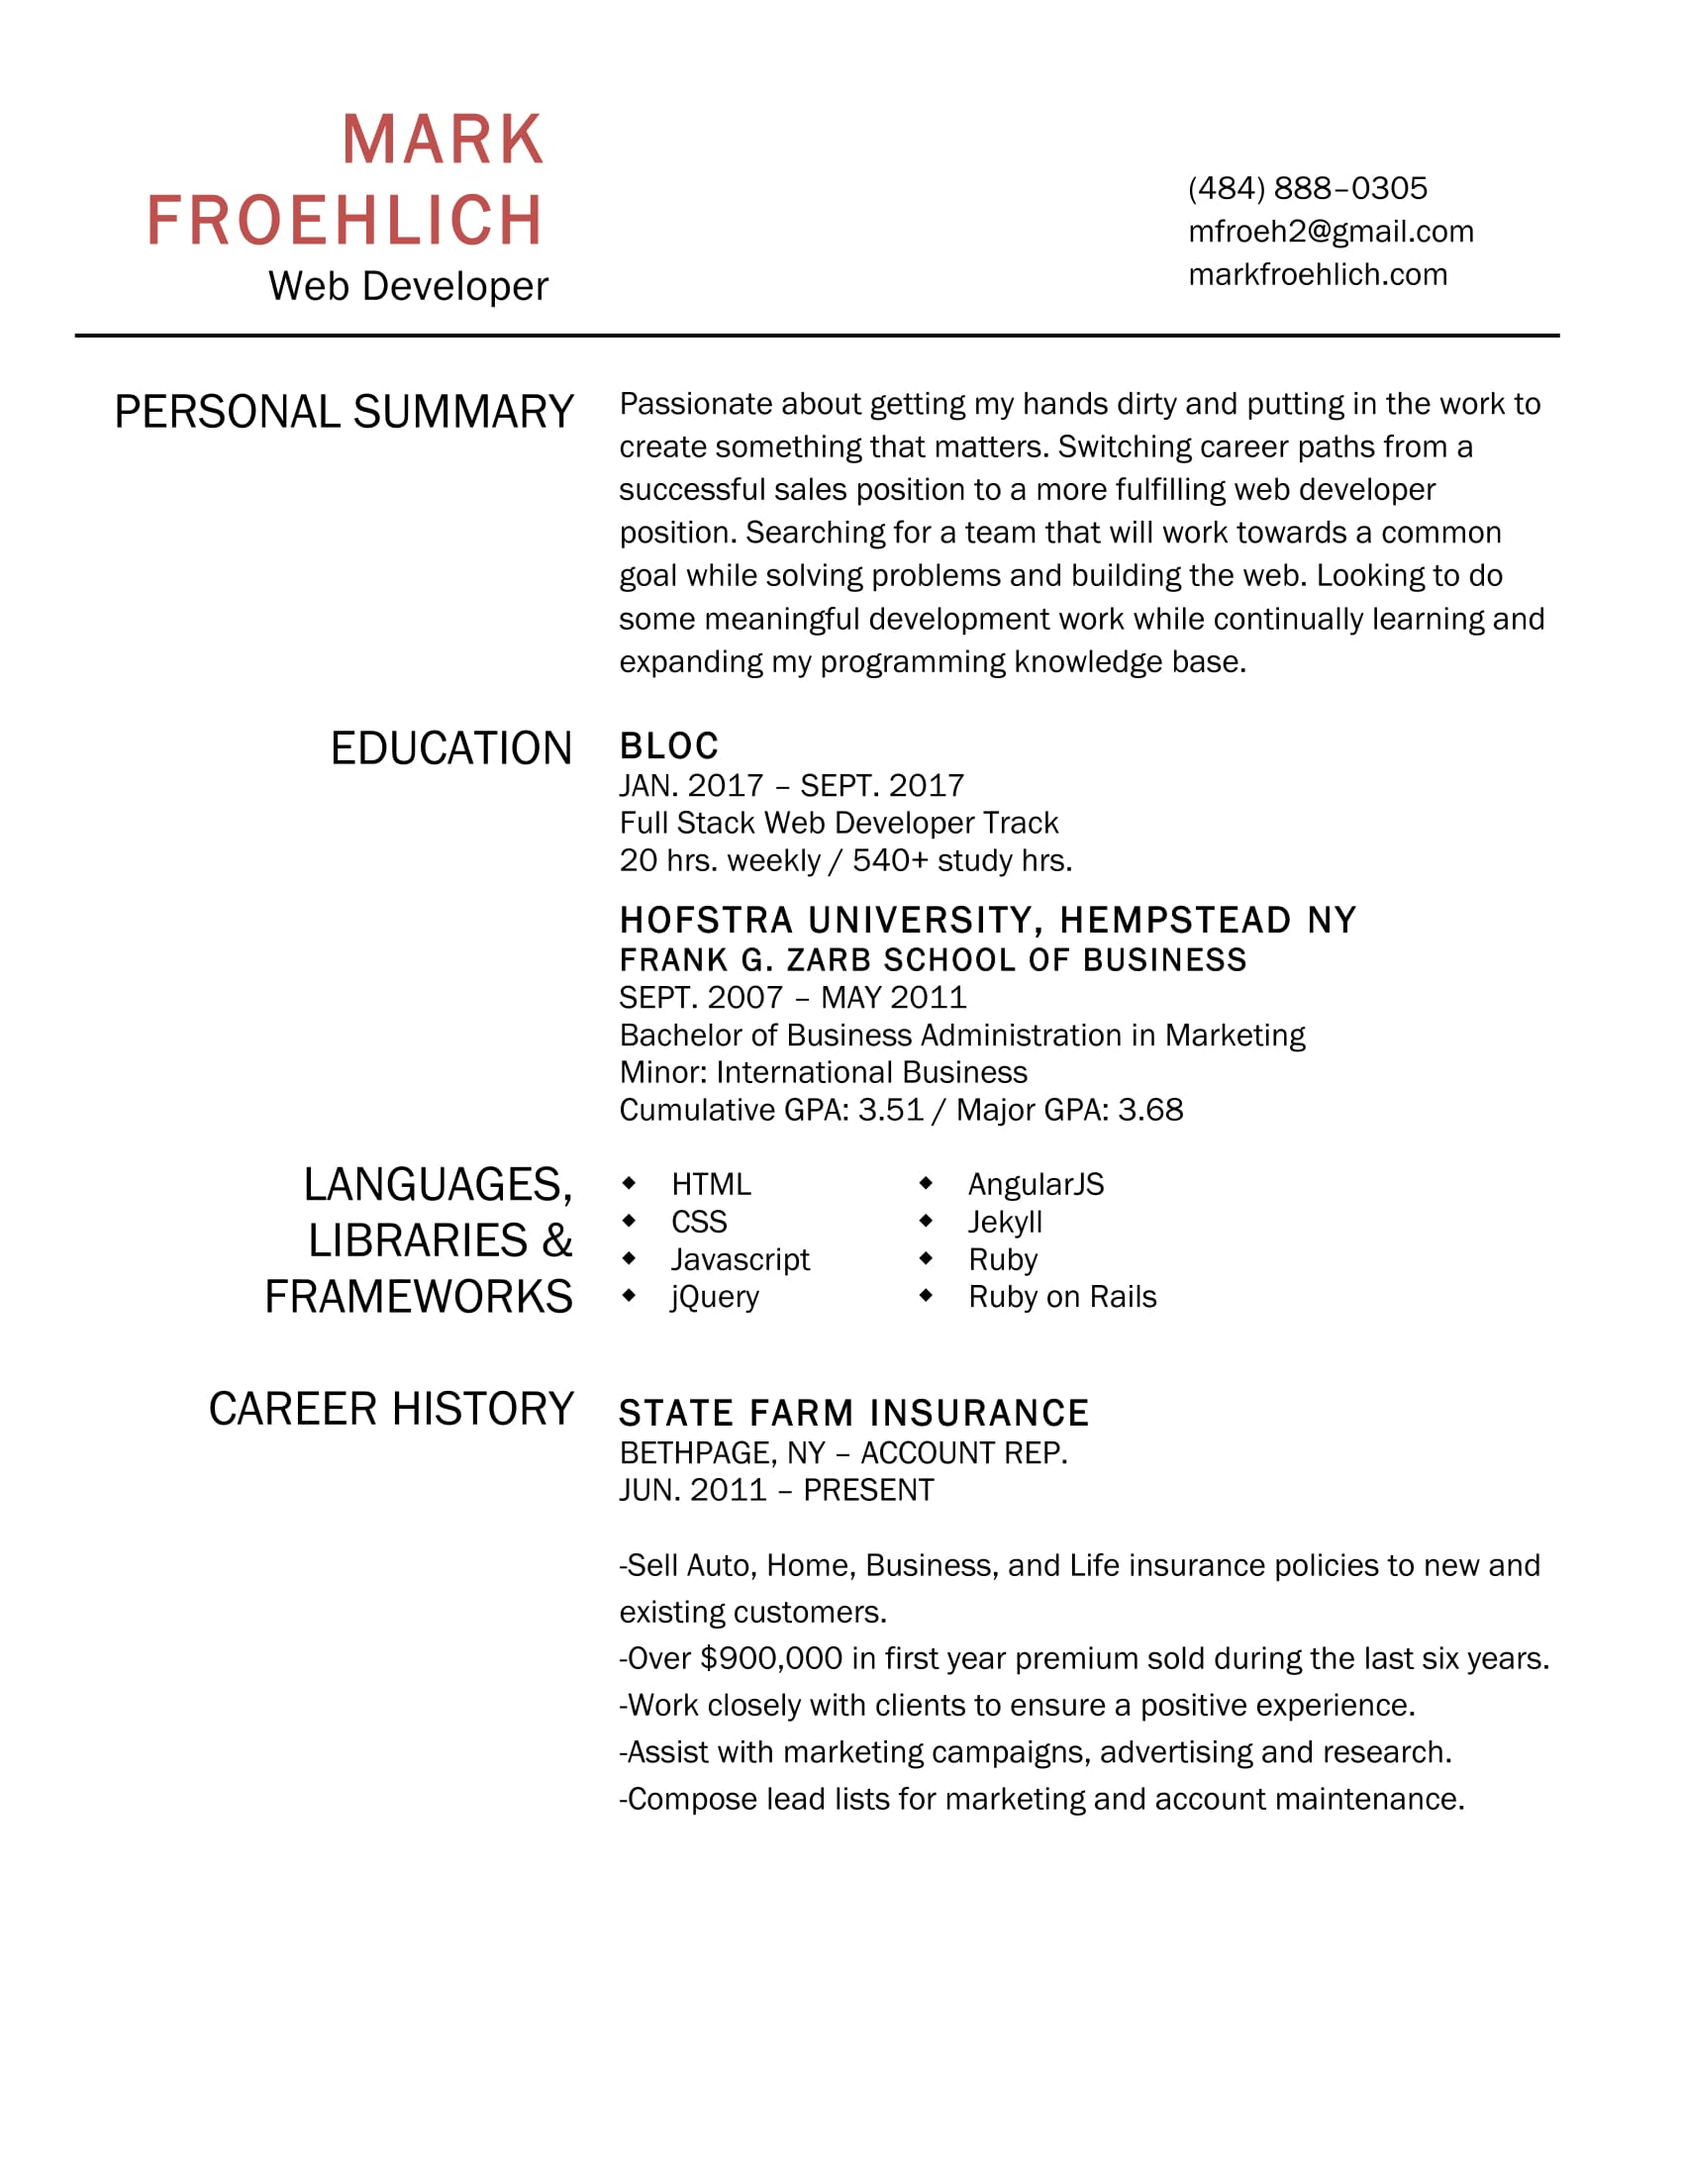
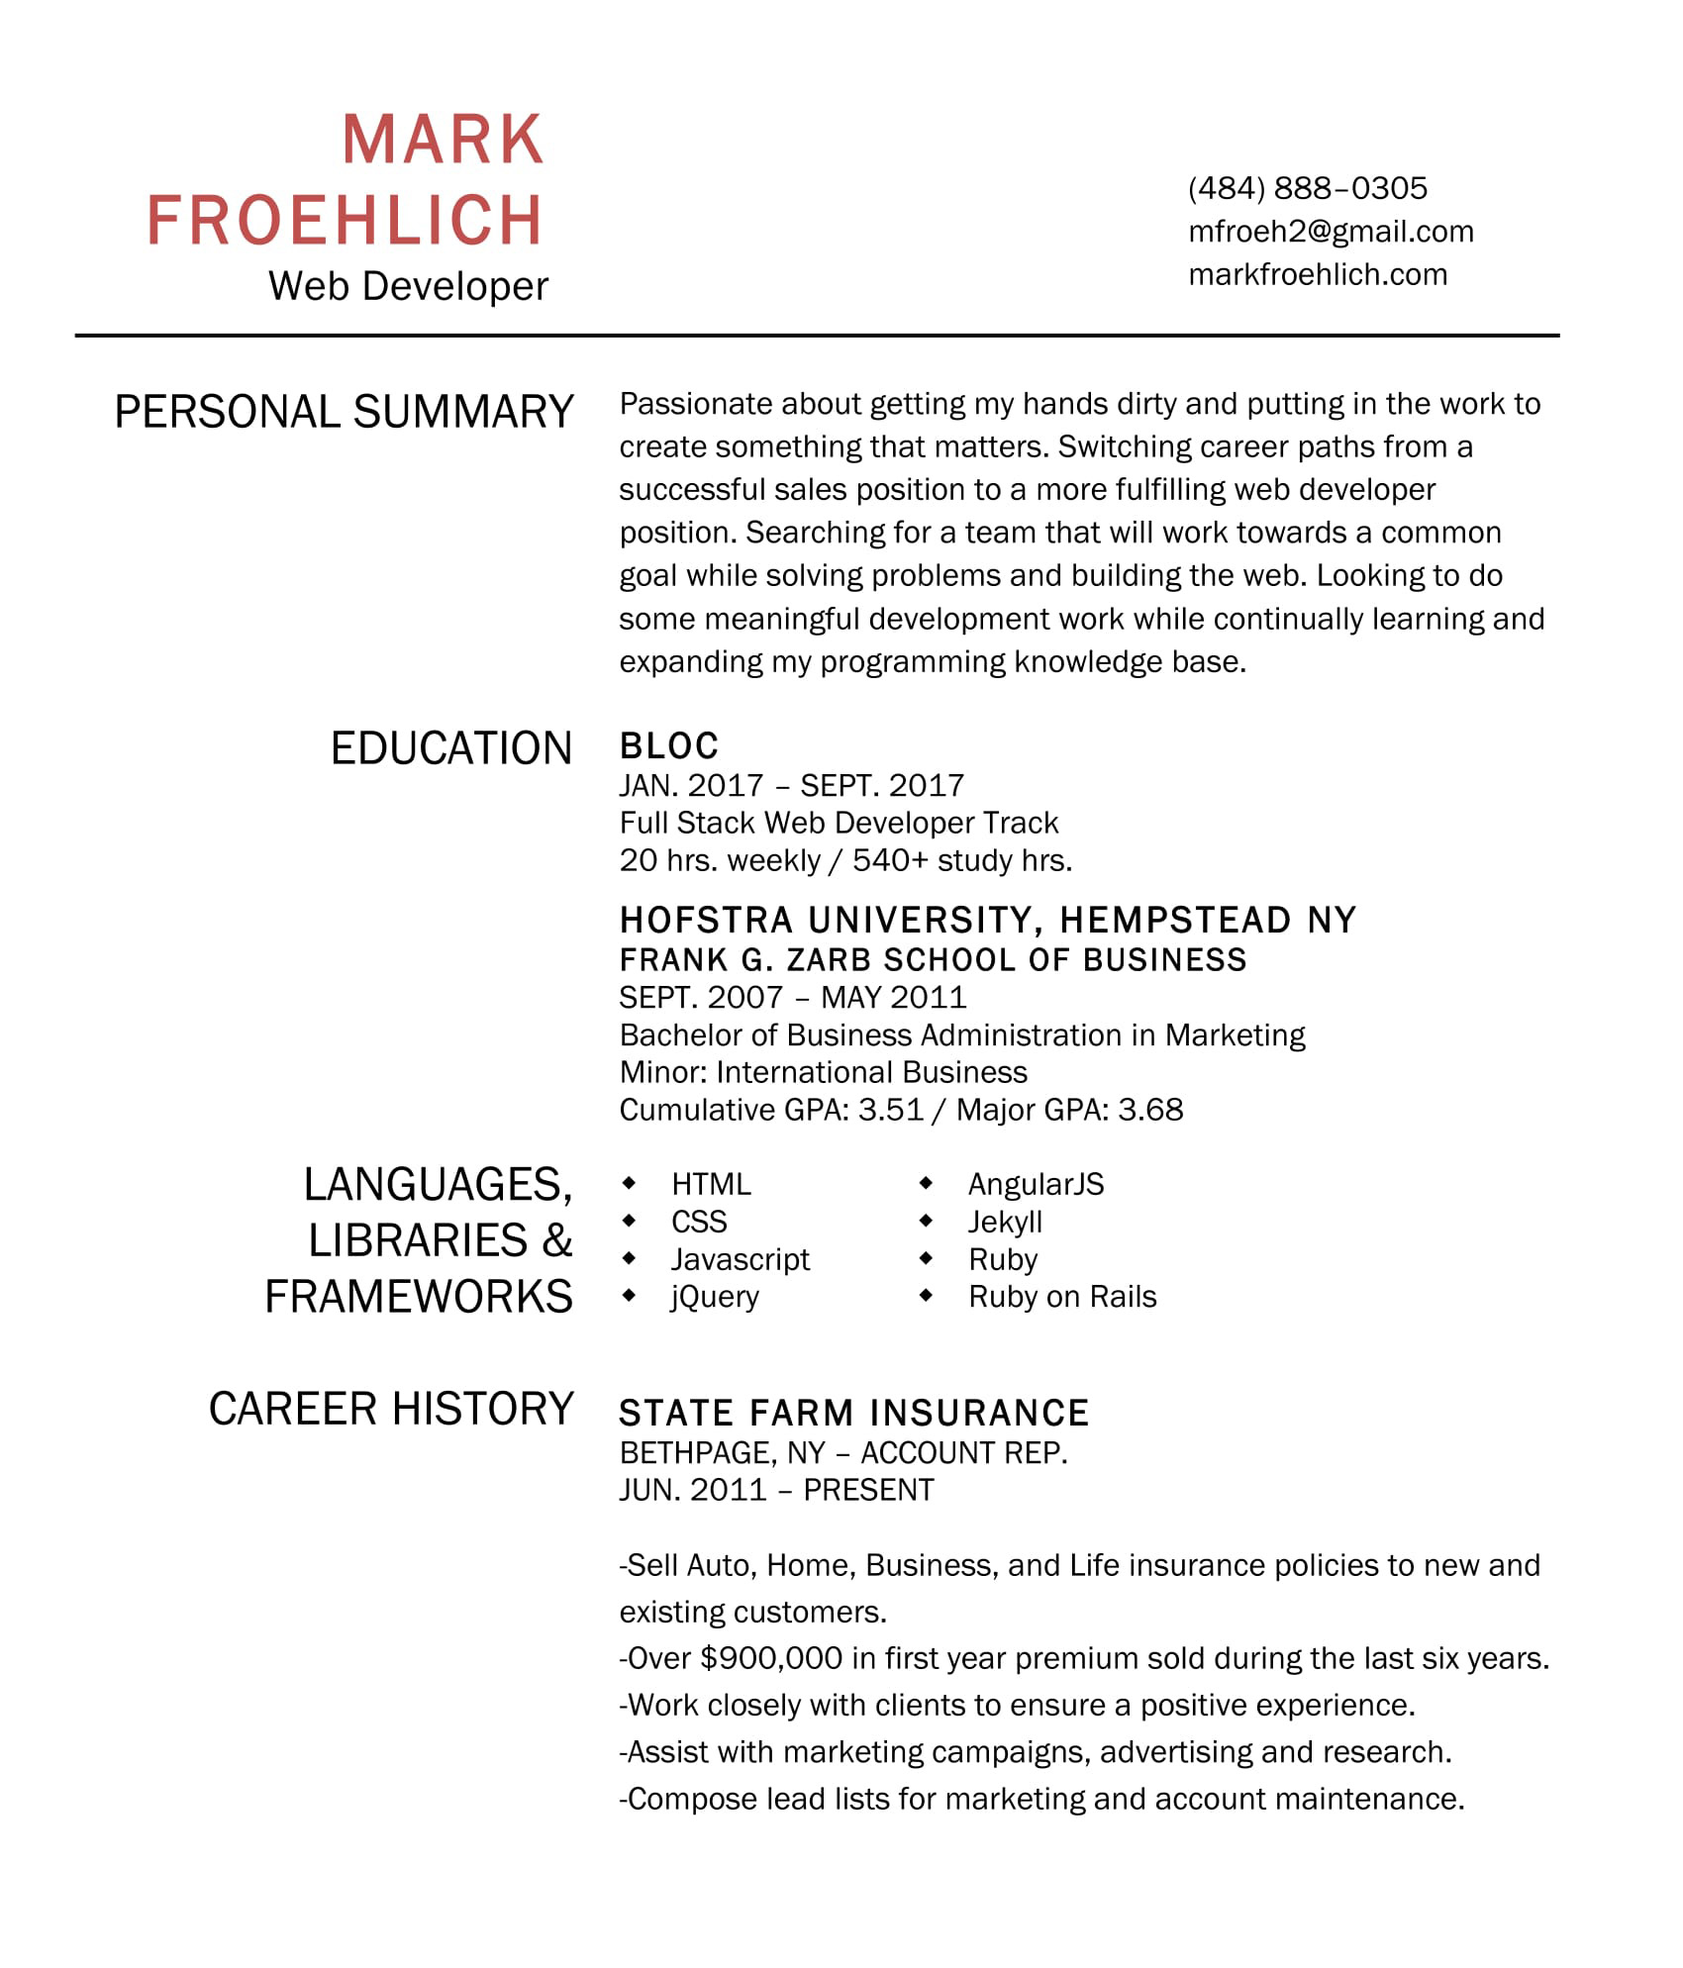
Added downloadable link to resume

diff --git a/index.html b/index.html
@@ -192,8 +192,12 @@
         <h2>Resume</h2>
       </div>
       
-      <div class="col-md-8 col-md-offset-2">
-        <img src="assets/resume.jpg" class="img-responsive">
+      <div class="col-md-8 col-md-offset-2 resume-img">
+        <p>&or;&or; click to download &or;&or;</p>
+        <a href="assets/Mark%20Froehlich%20Resume.pdf" download>
+          <img src="assets/resume.jpg" class="img-responsive">
+        </a>
+        <p>&and;&and; click to download &and;&and;</p>
       </div>
     </div>
     

diff --git a/css/main.css b/css/main.css
@@ -135,6 +135,10 @@
   margin: 10px 0 50px;
 }
 
+#about p:last-child {
+  margin-bottom: 100px;
+}
+
 #projects {
   background-color: white;
   width: 100%;
@@ -195,8 +199,13 @@
   width: 100%;
 }
 
-#resume img {
-  margin: 50px auto 100px;
+.resume-img {
+  margin-top: 50px !important;
+  margin-bottom: 100px !important;
+  text-align: center;
+}
+
+.resume-img img {
   background-color: white;
 }
 
